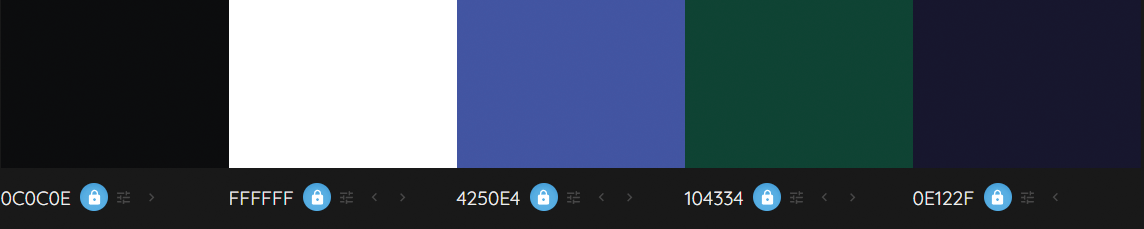
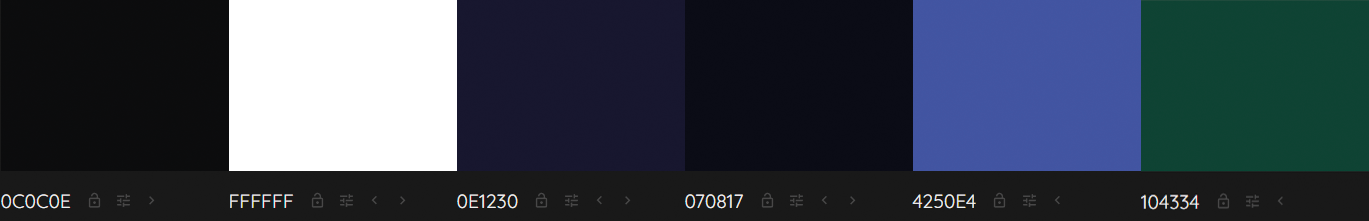
Style: adjust colour theme

diff --git a/static/css/style.css b/static/css/style.css
@@ -2,10 +2,11 @@
 :root {
     --primary-colour: #0c0c0e;
     --secondary-colour: #ffffff;
-    --secondary-colour-hover: #d8d9e3;
-    --primary-background-colour: #0e122f;
-    --secondary-background-colour: #104334;
-    --accent-colour: 66, 80, 228;
+    --primary-background-colour: #0E1230;
+    --secondary-background-colour: #070817;
+    --primary-accent-colour: #2E74FF;
+    --primary-accent-colour-opacity: 66, 80, 228;
+    --secondary-accent-colour: #104334;
 }
 
 /*--------------- COLOUR VARIABLES ENDS ---------------*/
@@ -61,7 +62,7 @@ a:visited {
 }
 
 a:hover {
-    color: var(--secondary-colour-hover);
+    color: var(--primary-accent-colour);
 }
 
 /*--------------- GENERAL LINK STYLING ENDS ---------------*/
@@ -70,7 +71,7 @@ a:hover {
 .navbar {
     --bs-navbar-padding-y: 0;
     position: relative;
-    border-bottom: 2px solid rgba(var(--accent-colour), 0.3);
+    border-bottom: 2px solid rgba(var(--primary-accent-colour-opacity), 0.3);
 }
 
 .navbar .container-fluid {
@@ -82,7 +83,7 @@ a:hover {
 }
 
 .navbar-brand:hover {
-    color: var(--secondary-colour-hover);
+    color: var(--primary-accent-colour);
 }
 
 .logo-container {
@@ -105,5 +106,7 @@ a:hover {
 .hidden-input {
     visibility: hidden;
 }
+
+
 /* --------------- ACCOUNT MANAGEMENT STYLING ENDS --------------- */
 

diff --git a/README.md b/README.md
@@ -325,11 +325,12 @@ For the body text, I'm pairing it with Open Sans, another sans-serif font that c
 
 ![Synaptic Surge Colour Swatch](static/images/readme/uxd/surface/joystick_junction_colour_swatch.png)
 
-- #0c0c0e (Very Dark Blue-Gray): This color is almost black but with a hint of blue, making it a sophisticated and strong choice for your primary color. It's ideal for key elements such as headers, footers, and primary backgrounds. It can also be used effectively for important text, offering a subtle alternative to pure black.
-- #ffffff (Pure White): This classic, clean color is perfect for backgrounds, especially to create a stark contrast with darker colors. It's also suitable for primary text and user interface elements like cards, buttons, and input fields, offering maximum readability and a crisp, clean look.
-- #4250e4 (Vivid Blue): This bright, lively blue is eye-catching and can be used as an accent color to draw attention to key elements like calls to action, links, or highlighted information. It's a vibrant choice that can add energy and dynamism to your design when used sparingly.
-- #104334 (Deep Teal Green): This dark, rich teal is both elegant and versatile. It can serve as an accent or secondary color, suitable for less dominant elements that still require visual interest, such as secondary buttons, icons, or background panels.
-- #0e122f (Dark Blue): Slightly lighter than #0c0c0e, this deep blue can be used to create a sense of depth and layering in your design. It works well for secondary backgrounds, sidebars, or for text that is important but doesn't need to stand out as much as the content in the primary color.
+- **#0c0c0e (Very Dark Blue-Gray):** This color is nearly black but carries a hint of blue, making it a sophisticated and robust choice for the primary color. It's perfect for headers, footers, primary backgrounds, and important text, offering a subtle alternative to pure black.
+- **#ffffff (Pure White):** A classic and clean white that serves as the ideal background color, especially for creating strong contrasts with darker colors. Versatile, suitable for primary text, as well as user interface elements such as cards, buttons, and input fields, ensuring maximum readability and a crisp, clean appearance.
+- **#0E1230 (Dark Blue):** Slightly lighter than the primary color, this deep blue adds depth and layering to the design. Well-suited for secondary backgrounds, sidebars, or text that doesn't need to be as prominent as the content in the primary color.
+- **#070817 (Even Darker Blue):** This color adds depth and richness to the design, enhancing the visual appeal of secondary backgrounds and making them visually distinct from the primary background.
+- **2E74FF (Bright Blue)**: This bright and lively blue is eye-catching and can be used as an accent color to draw attention to key elements like calls to action, links, or highlighted information. It's a vibrant choice that can add energy and dynamism to a design when used sparingly.
+- **#104334 (Deep Teal Green):** A dark and rich teal, both elegant and versatile, serving as an accent or secondary color. Ideal for less dominant elements that still demand visual interest, such as secondary buttons, icons, or background panels.
 
 <details>
 <summary><h4>Technologies Used</h4></summary>
